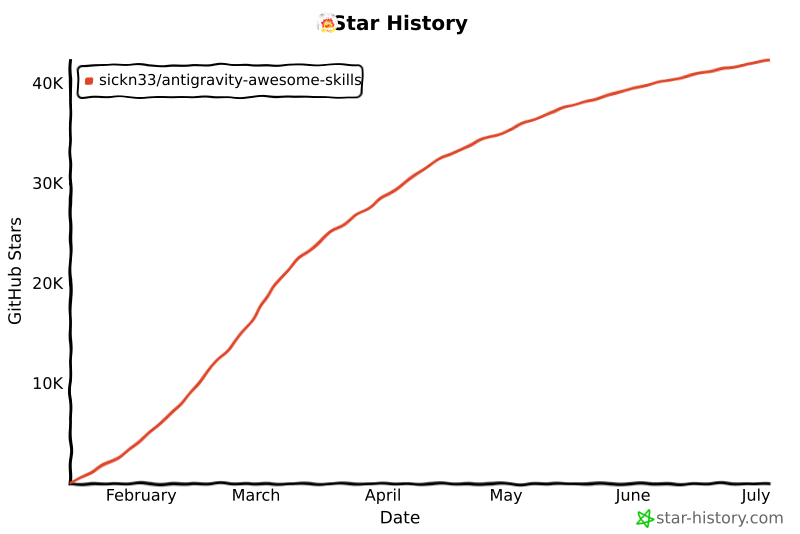
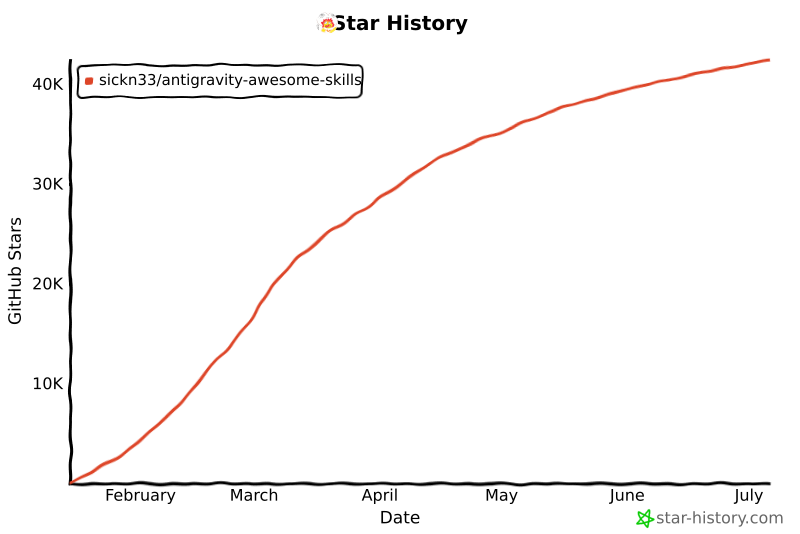
chore: update star history chart

diff --git a/README.md b/README.md
@@ -547,14 +547,14 @@ We officially thank the following contributors for their help in making this rep
 ## Star History
 
 <a href="https://www.star-history.com/#sickn33/antigravity-awesome-skills&type=date&legend=top-left">
- <img alt="Star History Chart" src="https://api.star-history.com/svg?repos=sickn33/antigravity-awesome-skills&type=date&legend=top-left&cache_bust=202607050707" />
+ <img alt="Star History Chart" src="https://api.star-history.com/svg?repos=sickn33/antigravity-awesome-skills&type=date&legend=top-left&cache_bust=202607060734" />
 </a>
 
 <a href="https://www.star-history.com/sickn33/antigravity-awesome-skills">
  <picture>
-   <source media="(prefers-color-scheme: dark)" srcset="https://api.star-history.com/chart?repos=sickn33/antigravity-awesome-skills&style=landscape1&theme=dark&cache_bust=202607050707" />
-   <source media="(prefers-color-scheme: light)" srcset="https://api.star-history.com/chart?repos=sickn33/antigravity-awesome-skills&style=landscape1&cache_bust=202607050707" />
-   <img alt="Star History Chart" src="https://api.star-history.com/chart?repos=sickn33/antigravity-awesome-skills&style=landscape1&cache_bust=202607050707" />
+   <source media="(prefers-color-scheme: dark)" srcset="https://api.star-history.com/chart?repos=sickn33/antigravity-awesome-skills&style=landscape1&theme=dark&cache_bust=202607060734" />
+   <source media="(prefers-color-scheme: light)" srcset="https://api.star-history.com/chart?repos=sickn33/antigravity-awesome-skills&style=landscape1&cache_bust=202607060734" />
+   <img alt="Star History Chart" src="https://api.star-history.com/chart?repos=sickn33/antigravity-awesome-skills&style=landscape1&cache_bust=202607060734" />
  </picture>
 </a>
 
